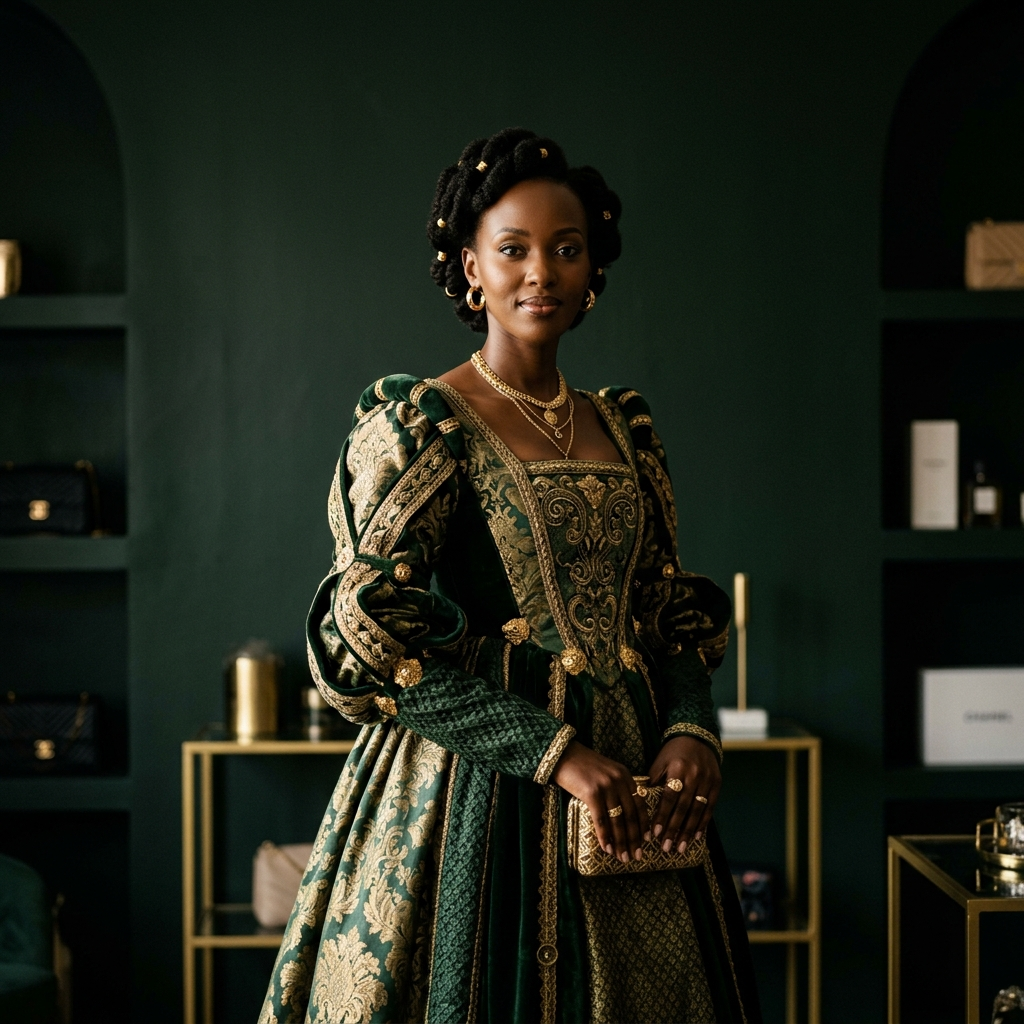
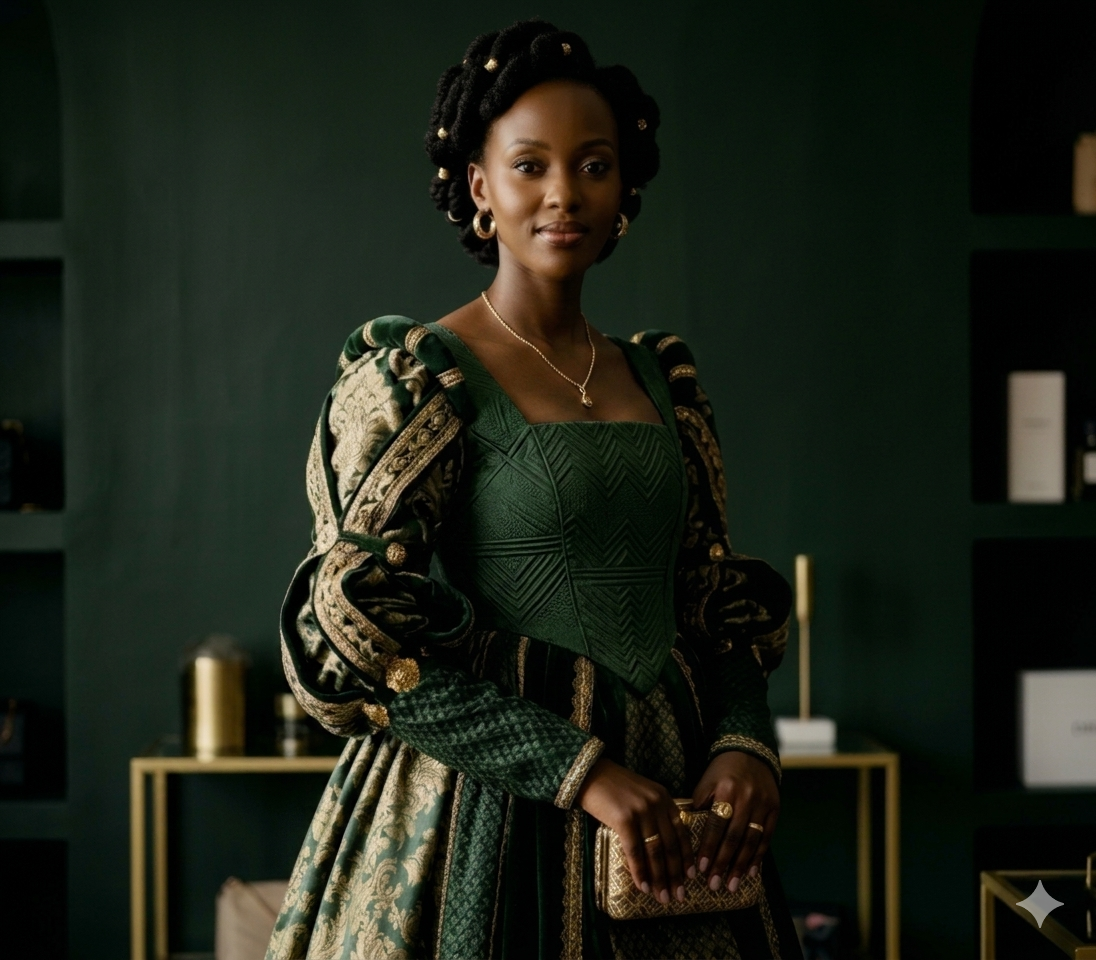
Use media folder images for all categories
Each category now has its own distinct photography from the media folder:
- Commerce: green dress hero portrait
- Cosmetics: flowers-in-hair beauty shot
- Skin Care: cream-on-face close-up (green bg)
- Fashion: Rwanda cap Renaissance dress
- Jewels: gold teardrop earrings portrait
- Additional assets: boutiques page orchid portrait, lip serum items

diff --git a/src/components/HeroSection.tsx b/src/components/HeroSection.tsx
@@ -26,7 +26,7 @@ const categories = [
     id: "skincare",
     title: "SKIN CARE",
     subtitle: "Glow naturally",
-    image: "/hero.png",
+    image: "/skincare.png",
     imagePosition: "left" as const,
     panelBg: "#EEF2E6",
     panelAccent: "#D4DFC2",
@@ -44,7 +44,7 @@ const categories = [
     id: "jewels",
     title: "JEWELS",
     subtitle: "Adorn yourself",
-    image: "/hero.png",
+    image: "/jewels.png",
     imagePosition: "left" as const,
     panelBg: "#F5F0EA",
     panelAccent: "#E8DDD0",